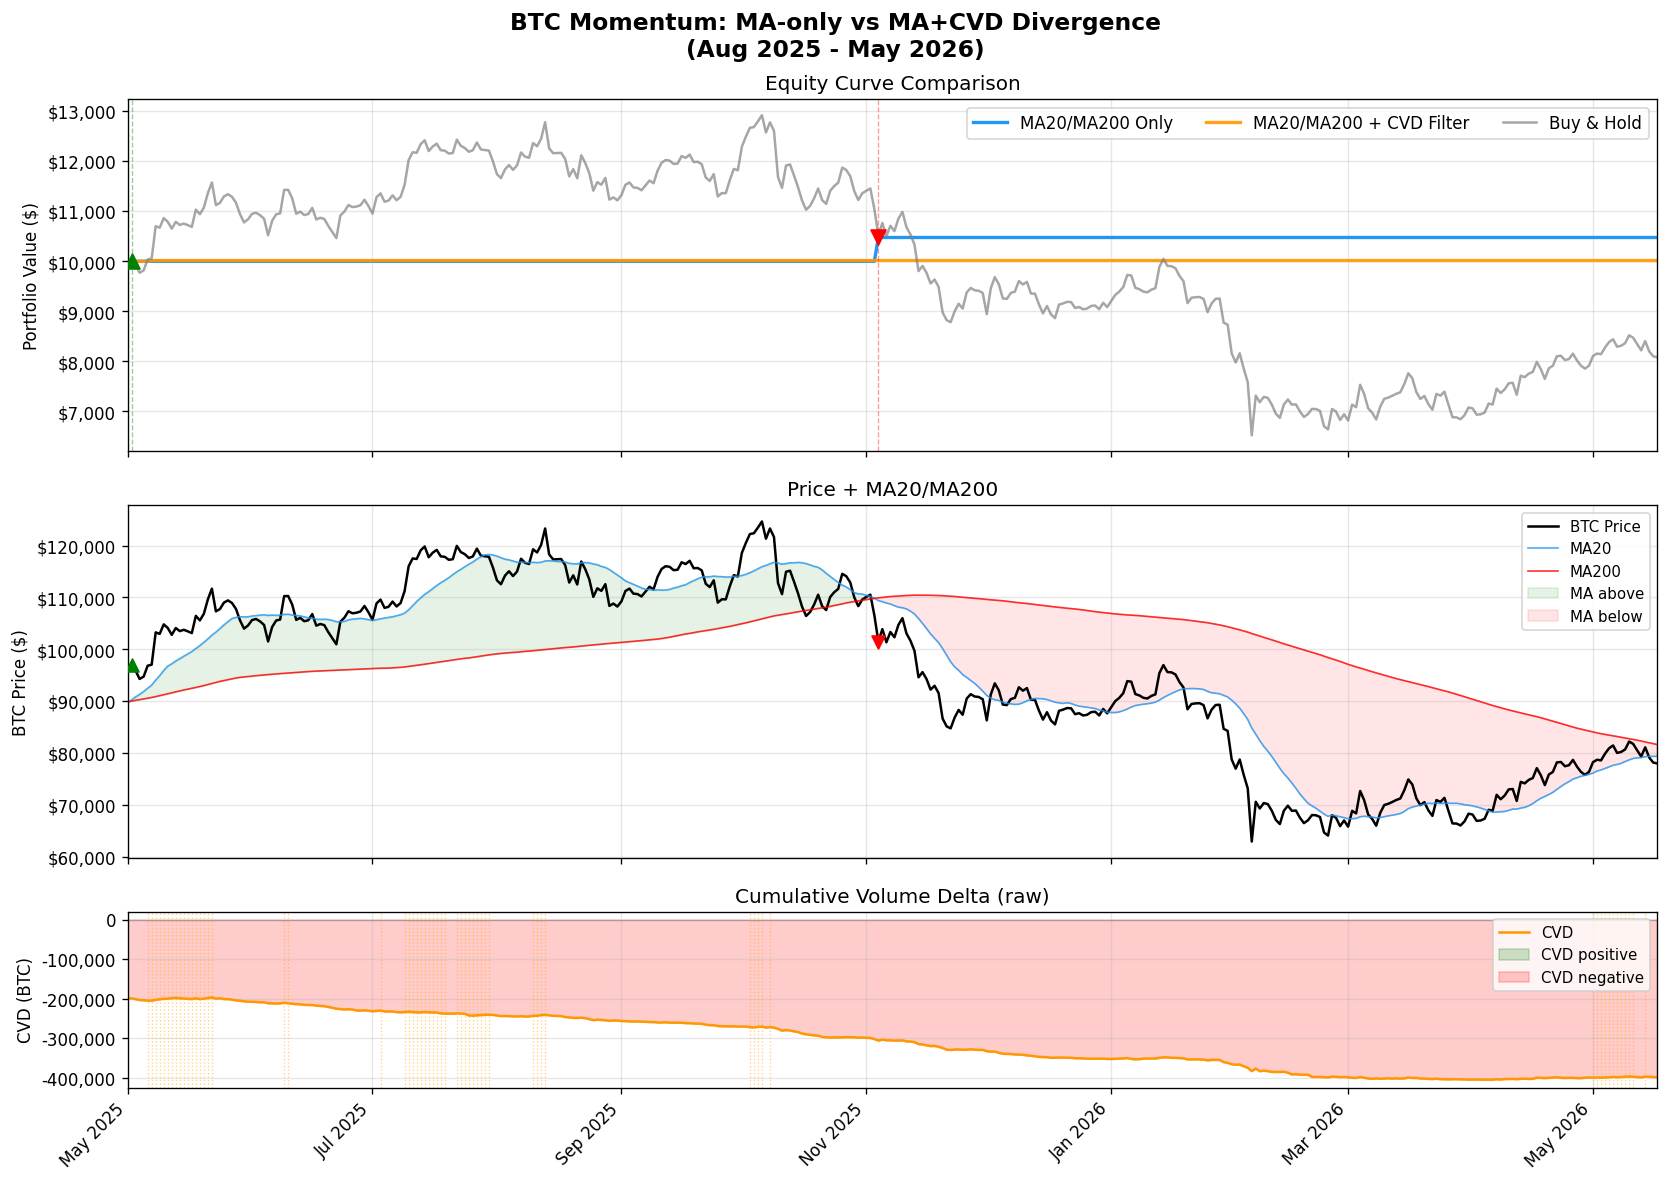
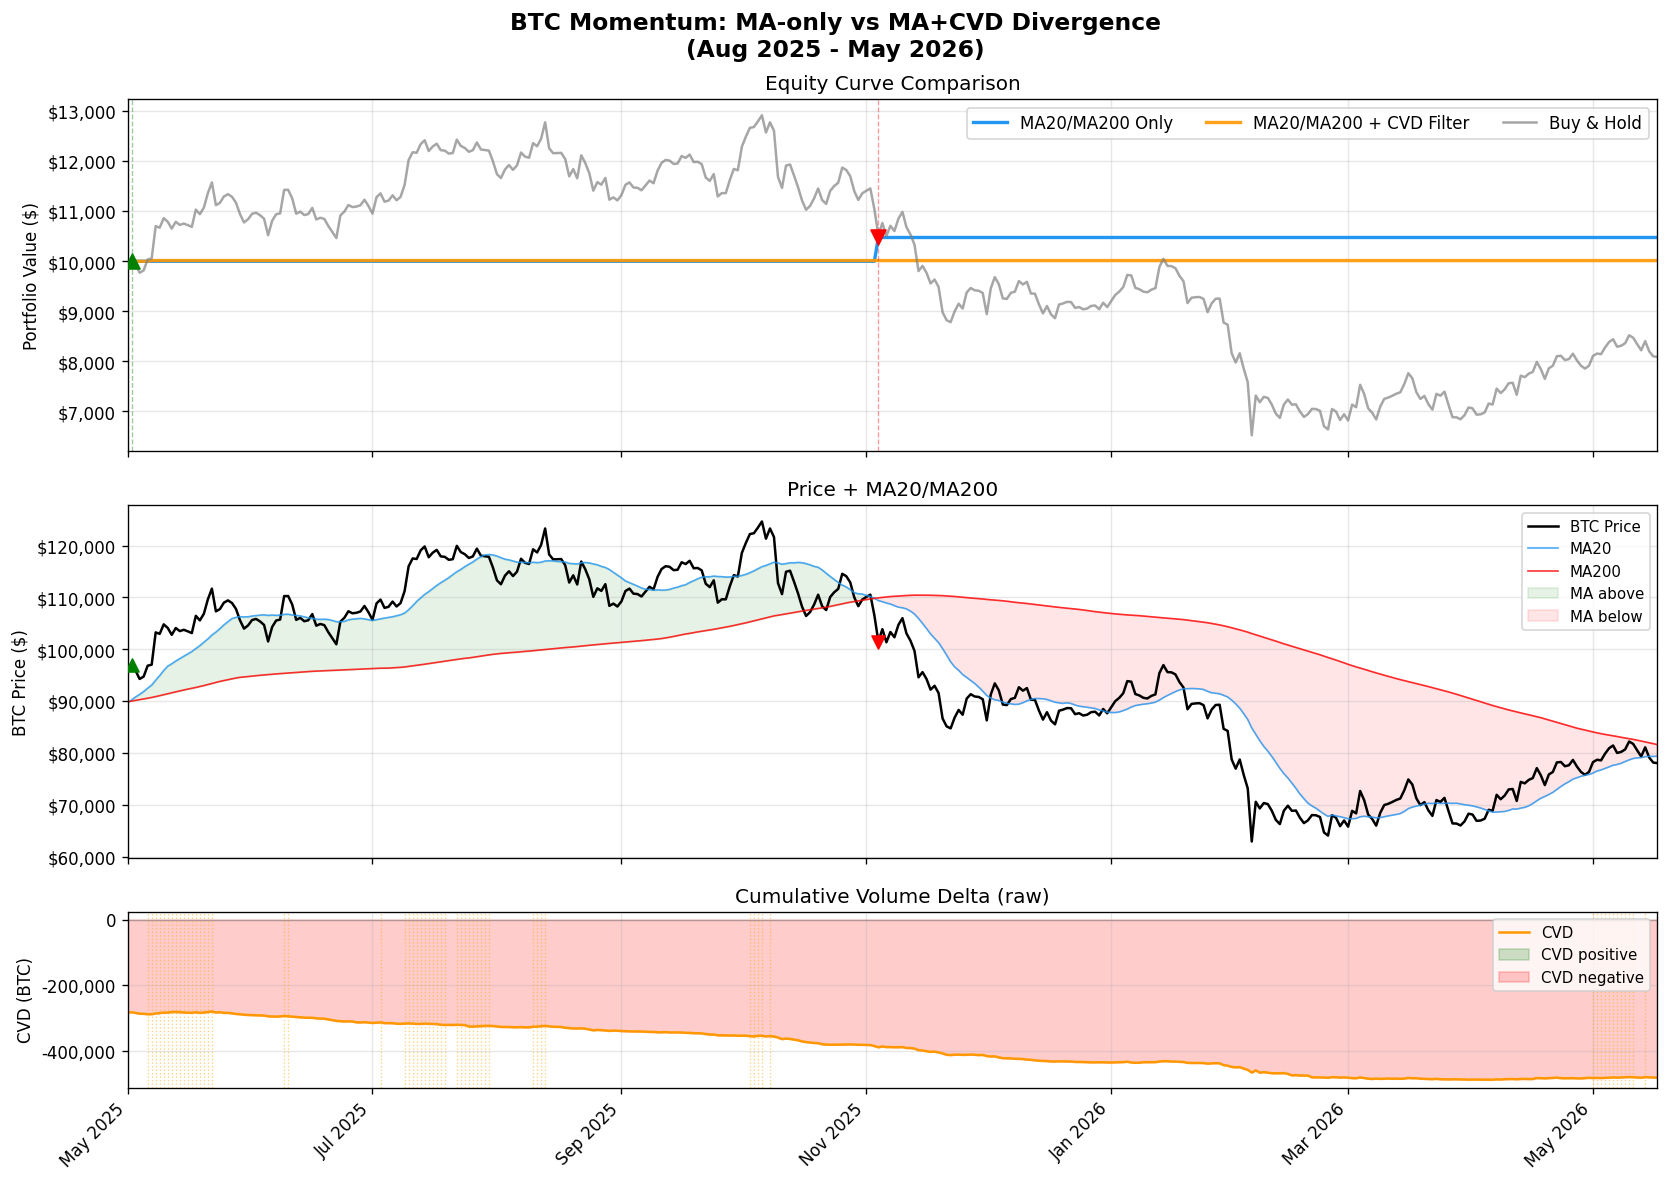
Fetch from Aug 2023 to match momentum script. All 6 crossovers now align.

Changed region(s): [[0.0312, 0.7919, 0.5297, 0.9137], [0.5297, 0.8832, 0.7789, 0.9137]]

diff --git a/btc_cvd_backtest.py b/btc_cvd_backtest.py
@@ -1,8 +1,9 @@
 """
 BTC CVD + MA20/MA200 Momentum Backtest (v3)
 ==========================================
-Fetch from Feb 2024 so MA200 is valid before Aug 2025 backtest start.
-Deduplication + forward fetch for clean data quality.
+Fetch from Aug 2023 — same starting point as the original momentum script.
+Forward fill + deduplication for clean data quality.
+MA200 first valid: ~Feb 2024. Backtest starts May 2025.
 
 Run: python btc_cvd_backtest.py
 Output: btc_cvd_equity_curve.png
@@ -20,7 +21,7 @@ import matplotlib.dates as mdates
 # ============================================================
 print("Fetching BTCUSDT daily klines from Binance...")
 
-FATCH_START_MS = 1706745600000  # Feb 1, 2024
+FATCH_START_MS = 1692662400000  # Aug 1, 2023
 
 all_klines = []
 batch = 500
